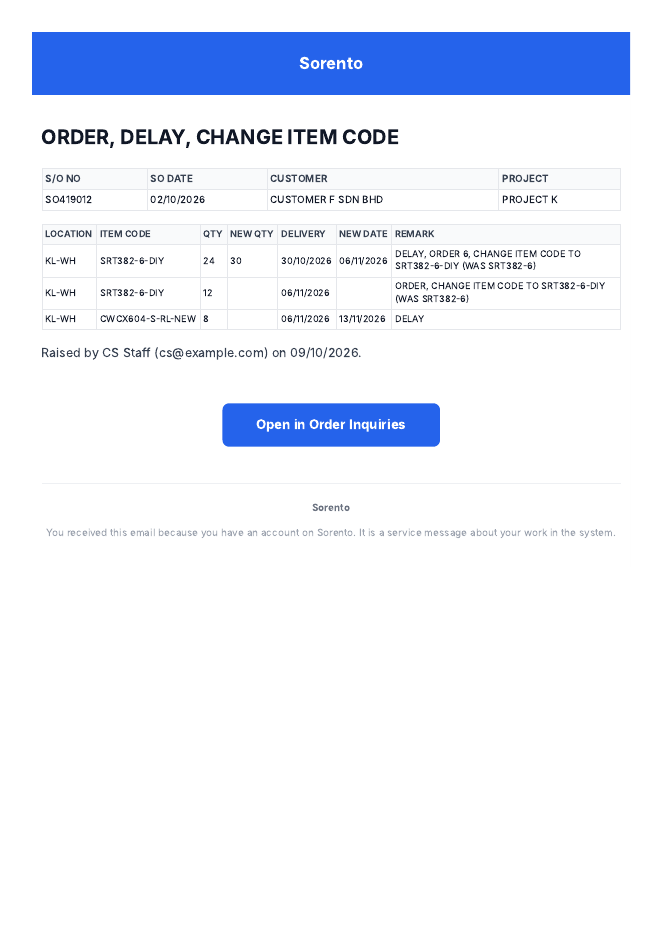
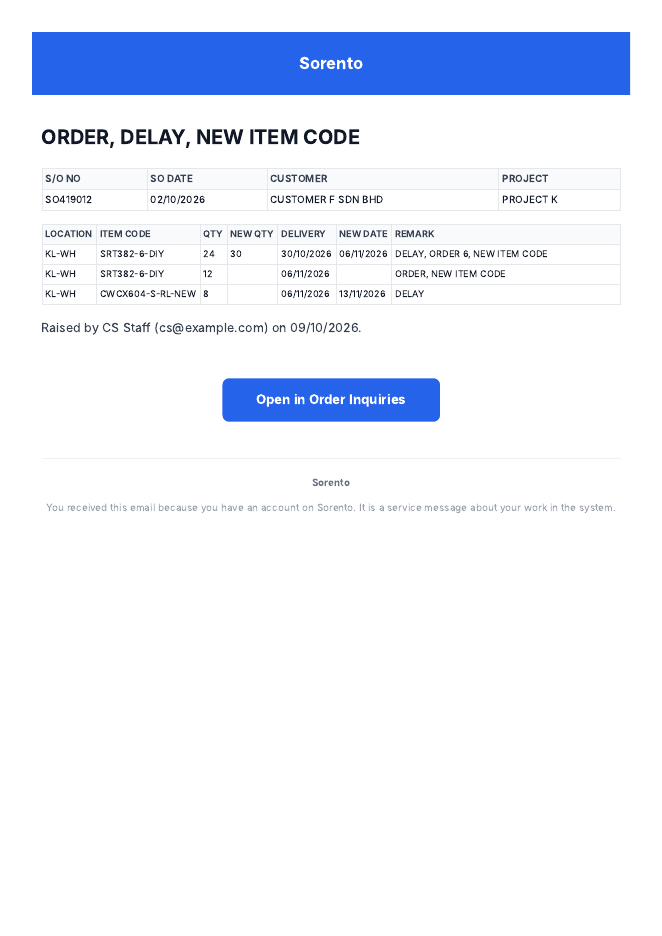
feat(scm): OI handover REMARK in 3 words or fewer per owner rulings (OI-EMAIL-PRINT)
Owner, 9 Oct: ORDER BACK without document (Q-A), MOVED TO <SO> (Q-C), ORDER N /
CANCEL N / CANCEL ALL (Q-D), NEW ITEM CODE for a product change, headline included
(Q-E); combos join by ', '. PRE-ORDERED unchanged (Q-B pending).

Claude-Session: https://claude.ai/code/session_0128QV6Rszh9fo9ABpWJyzZC

diff --git a/documentation/plans/scm/evidence/oi-email-print/print_check.js b/documentation/plans/scm/evidence/oi-email-print/print_check.js
@@ -3,7 +3,7 @@ const fs = require('fs');
 const dir = process.argv[2];
 (async () => {
   const b = await chromium.launch({ executablePath: '/opt/pw-browsers/chromium-1194/chrome-linux/chrome' });
-  for (const c of ['case1', 'case2', 'case3', 'case4']) {
+  for (const c of ['case1', 'case2', 'case3', 'case4', 'case5']) {
     const p = await b.newPage({ viewport: { width: 698, height: 1000 } });
     await p.setContent(fs.readFileSync(`${dir}/${c}.html`, 'utf8'));
     const m = await p.evaluate(() => {

diff --git a/sorento_crm_backend/app/services/project_order_inquiry_service.py b/sorento_crm_backend/app/services/project_order_inquiry_service.py
@@ -314,8 +314,9 @@ _HANDOVER_VERB_LABEL = {
     IV_CHANGE_SO: "CHANGE SO NO",
     IV_CANCEL_BALANCE: "CANCEL BALANCE",
     # OI-PRODUCT-FOLLOW R4 (review S1): a product-only settle earns no qty/date verb, and
-    # the email's headline would otherwise print blank.
-    "CHANGE_ITEM_CODE": "CHANGE ITEM CODE",
+    # the email's headline would otherwise print blank. Worded as REMARK words it
+    # (OI-EMAIL-PRINT, owner 9 Oct).
+    "CHANGE_ITEM_CODE": "NEW ITEM CODE",
 }
 
 
@@ -372,6 +373,11 @@ def _handover_verb_keys(
     return []
 
 
+#: REMARK's words for a product change (owner, 9 Oct): the new code already prints in ITEM
+#: CODE, so the remark only says that it changed.
+_NEW_ITEM_CODE = "NEW ITEM CODE"
+
+
 def handover_remark(
     kind: str, row: Any, was: Optional[Dict[str, Any]], qty: Optional[Decimal] = None
 ) -> str:
@@ -381,25 +387,29 @@ def handover_remark(
     `OrderInquiryRow` or a lightweight stand-in carrying the same attributes, which is
     exactly why this is a pure function rather than a method: it never queries anything.
 
-    * `kind="raised"`: the verb's own spelling (`REMARK_SPELLING`), an `ORDER_BACK`
-      appending its cited document, a CHANGE SO NO appending the order it moves to.
+    Owner, 9 Oct (OI-EMAIL-PRINT, `REMARK-wording-oi-email-print-09oct.md`): "simple and
+    concise, ideally 3 words or fewer". REMARK says what purchasing must do and repeats no
+    number or code another column already shows: ITEM CODE prints the new code, QTY /
+    NEW QTY and DELIVERY / NEW DATE print the moves.
+
+    * `kind="raised"`: the verb's own spelling (`REMARK_SPELLING`); a CHANGE SO NO whose
+      target is known reads `MOVED TO <SO>`; an ORDER BACK prints no document (Q-A).
       `row.note` itself is NEVER printed (OI-EMAIL-PRINT, owner 9 Oct): it is a bag of
       internal stamps ("Planning keeps this Buy: ...", "Replaces 20 used; ...",
       "Order-back: ...", "Linked to ...") that made REMARK wrap over several lines and
       leaked planning notes into a mail purchasing prints. It stays on the row and on the
       OI worklist, one click away through the email's own button.
-    * `kind="settled"`: the date verb (ADVANCE/DELAY) and the qty phrase (`CANCEL BALANCE
-      N NOS` / `ORDER N`), whichever of the two actually moved, joined by ", " when both did.
-    * `kind="cancelled"`: `CANCEL BALANCE <old qty> NOS` - the honest end of a line the book
-      reduced to nothing.
+    * `kind="settled"`: the date verb (ADVANCE/DELAY) and the qty phrase (`CANCEL N` /
+      `ORDER N`), whichever of the two actually moved, joined by ", " when both did.
+    * `kind="cancelled"`: `CANCEL ALL` - the honest end of a line the book reduced to
+      nothing (QTY prints 0; the old quantity stays the row's own record).
+    * A product change on either kind adds `NEW ITEM CODE`.
 
     `qty` as `_handover_settle_diff` reads it: the line's new total for a settled line
     told off a row whose own quantity did not move.
     """
     if kind == "raised":
         label = REMARK_SPELLING.get(row.verb, row.verb or "")
-        if row.verb == IV_ORDER_BACK and getattr(row, "cited_document", None):
-            label = f"{label} {row.cited_document}"
         if row.verb == IV_CHANGE_SO:
             # The one fact a note carries that IS the instruction: where the line moved
             # (`_change_note`'s "Moved to <SO>" for a repoint). Read back off that fixed
@@ -411,14 +421,10 @@ def handover_remark(
                 r"(?:^|; )Moved to ([A-Z0-9][^\s;]*)\s*(?:;|$)", getattr(row, "note", None) or ""
             )
             if moved:
-                label = f"{label} TO {moved.group(1)}"
-        old_code = (was or {}).get("item_code")
-        if old_code:
+                label = f"MOVED TO {moved.group(1)}"
+        if (was or {}).get("item_code"):
             # OI-PRODUCT-FOLLOW R4: a fresh row raised on the line's new product.
-            label = (
-                f"{label}, CHANGE ITEM CODE TO "
-                f"{getattr(row, 'item_code', None) or '-'} (WAS {old_code})"
-            )
+            label = f"{label}, {_NEW_ITEM_CODE}"
         return label
     if kind == "settled":
         date_key, qty_key, qty_diff = _handover_settle_diff(row, was, qty)
@@ -426,20 +432,16 @@ def handover_remark(
         if date_key:
             parts.append(REMARK_SPELLING.get(date_key, date_key))
         if qty_key == IV_CANCEL_BALANCE:
-            parts.append(f"CANCEL BALANCE {_qty_str(qty_diff)} NOS")
+            parts.append(f"CANCEL {_qty_str(qty_diff)}")
         elif qty_key == IV_ORDER:
             parts.append(f"ORDER {_qty_str(qty_diff)}")
         # OI-PRODUCT-FOLLOW R4: AutoCount swapped the line's product and Confirm moved
         # the row onto it - purchasing reads the change in the same REMARK cell.
-        old_code = (was or {}).get("item_code")
-        if old_code:
-            parts.append(
-                f"CHANGE ITEM CODE TO {getattr(row, 'item_code', None) or '-'} (WAS {old_code})"
-            )
+        if (was or {}).get("item_code"):
+            parts.append(_NEW_ITEM_CODE)
         return ", ".join(parts)
     if kind == "cancelled":
-        old_qty = (was or {}).get("qty")
-        return f"CANCEL BALANCE {_qty_str(_dec(old_qty))} NOS"
+        return "CANCEL ALL"
     return ""
 
 
@@ -2130,7 +2132,7 @@ class ProjectOrderInquiryService:
                 line["was"] = was
                 line["item_code"] = live[0].item_code
                 item["item_code"] = live[0].item_code
-                phrase = f"CHANGE ITEM CODE TO {live[0].item_code} (WAS {old_code})"
+                phrase = _NEW_ITEM_CODE
                 line["remark"] = f"{line['remark']}, {phrase}" if line.get("remark") else phrase
                 if "CHANGE_ITEM_CODE" not in item["verb_keys"]:
                     item["verb_keys"] = [*item["verb_keys"], "CHANGE_ITEM_CODE"]

diff --git a/documentation/plans/scm/evidence/oi-email-print/render_real.py b/documentation/plans/scm/evidence/oi-email-print/render_real.py
@@ -8,7 +8,7 @@ sys.path.insert(0, ".")
 from app.models.email_template import EmailTemplate
 from app.services.email_template_service import EmailTemplateService
 from app.services.project_order_inquiry_service import (
-    IV_ORDER, IV_ORDER_BACK, IV_DELAY, _build_handover_context, _format_handover_was,
+    IV_ORDER, IV_ORDER_BACK, IV_DELAY, IV_CHANGE_SO, _build_handover_context, _format_handover_was,
     _handover_fmt_date, _handover_verb_keys, handover_remark,
 )
 from tests._pg_fixture import blank_session
@@ -31,7 +31,7 @@ def item(so, so_date, pso, customer, project, kind, line_no, **row):
         "row_id": f"{so}-{line_no}", "verb_keys": _handover_verb_keys(kind, r, was),
         "line": {
             "so_date": so_date, "so_number": so, "customer": customer, "project": project,
-            "item_code": r.item_code, "qty": str(r.qty), "delivery_date": _handover_fmt_date(r.delivery_date),
+            "item_code": r.item_code, "qty": "0" if kind == "cancelled" else str(r.qty), "delivery_date": _handover_fmt_date(r.delivery_date),
             "location": r.stock_location or "", "remark": handover_remark(kind, r, was),
             "was": _format_handover_was(was),
         },
@@ -76,6 +76,20 @@ cases = {
         item("SO419012", "02/10/2026", "p5", "CUSTOMER F SDN BHD", "PROJECT K", "settled", 3,
              verb=IV_ORDER, qty=8, delivery_date=D(2026, 11, 13), item_code="CWCX604-S-RL-NEW",
              stock_location="KL-WH", was={"delivery_date": D(2026, 11, 6)}),
+    ],
+    "case5": [  # remaining wordings: CANCEL ALL, MOVED TO, CHANGE SO NO, ORDER BACK (no doc)
+        item("SO419100", "05/10/2026", "p6", "CUSTOMER G SDN BHD", "PROJECT N", "cancelled", 1,
+             verb=IV_ORDER, qty=36, delivery_date=D(2026, 11, 2), item_code="SRTFV1001",
+             stock_location="KL-WH", was={"qty": 36}),
+        item("SO419100", "05/10/2026", "p6", "CUSTOMER G SDN BHD", "PROJECT N", "raised", 2,
+             verb=IV_CHANGE_SO, qty=12, delivery_date=D(2026, 11, 2), item_code="SRTUB206-BI",
+             stock_location="KL-WH", note="Moved to SO419101"),
+        item("SO419100", "05/10/2026", "p6", "CUSTOMER G SDN BHD", "PROJECT N", "raised", 3,
+             verb=IV_CHANGE_SO, qty=4, delivery_date=D(2026, 11, 2), item_code="SRTBS2201",
+             stock_location="KL-WH"),
+        item("SO419100", "05/10/2026", "p6", "CUSTOMER G SDN BHD", "PROJECT N", "raised", 4,
+             verb=IV_ORDER_BACK, qty=16, delivery_date=D(2026, 11, 2), item_code="SRTWT6808",
+             stock_location="KL-WH", cited_document="SPO-2026/08-0061"),
     ],
     "case3": [  # long order: 42 lines
         item("SO418900", "01/10/2026", "p4", "CUSTOMER D SDN BHD", "PROJECT M", "raised", i,

diff --git a/sorento_crm_backend/tests/test_so_cancel_handover.py b/sorento_crm_backend/tests/test_so_cancel_handover.py
@@ -129,7 +129,7 @@ def _link_count(db, row):
 
 
 def _assert_cancel_balance_line(line, row):
-    assert line["remark"] == "CANCEL BALANCE 36 NOS"
+    assert line["remark"] == "CANCEL ALL"
     assert line["qty"] == "0"  # QTY CHANGE TO 0, same as the cancel balance route
     assert line["was"]["qty"] == "36"
     assert line["item_code"] == row.item_code
@@ -324,7 +324,7 @@ def test_h9_three_cancelled_lines_make_one_dispatch_with_three_lines(api, monkey
     assert len(matches) == 1, f"expected one {TRIGGER} dispatch, got {len(matches)}"
     handover = matches[0]["context"]["handover"]
     assert handover["line_count"] == 3
-    assert {line["remark"] for line in handover["lines"]} == {"CANCEL BALANCE 36 NOS"}
+    assert {line["remark"] for line in handover["lines"]} == {"CANCEL ALL"}
     assert {line["item_code"] for line in handover["lines"]} == {
         p.product_code for _c, _m, p in mirrors
     }
@@ -344,7 +344,7 @@ def test_h10_a_mixed_press_hands_over_the_cancel_beside_the_confirm(api, monkeyp
     assert len(matches) == 1, f"expected one {TRIGGER} dispatch, got {len(matches)}"
     lines = matches[0]["context"]["handover"]["lines"]
     assert len(lines) >= 2, lines
-    assert [ln["remark"] for ln in lines].count("CANCEL BALANCE 36 NOS") == 1
+    assert [ln["remark"] for ln in lines].count("CANCEL ALL") == 1
 
 
 def test_h11_confirm_all_behaves_the_same(api, monkeypatch):

diff --git a/sorento_crm_backend/tests/test_order_inquiry_handover_automation.py b/sorento_crm_backend/tests/test_order_inquiry_handover_automation.py
@@ -377,7 +377,8 @@ def test_raised_rows_no_was_and_order_back_carries_cited_document(api, monkeypat
     assert plain["was"] is None
     order_back = next(l for l in lines if l["remark"].startswith("ORDER BACK"))
     assert order_back["was"] is None
-    assert "SPO-2026/08-0061" in order_back["remark"]
+    # Owner, 9 Oct (Q-A): the document stays on the row, not in REMARK.
+    assert order_back["remark"] == "ORDER BACK"
 
 
 # --------------------------------------------------------------------------- #
@@ -1237,7 +1238,7 @@ def test_named_two_live_rows_supersede(api, monkeypatch):
     matches = _handover_calls(calls)
     assert matches, "the reconfirm must dispatch the handover"
     lines = matches[-1]["context"]["handover"]["lines"]
-    cancelled = [l for l in lines if l["remark"].startswith("CANCEL BALANCE")]
+    cancelled = [l for l in lines if l["remark"].startswith("CANCEL")]
     assert len(cancelled) == 2, f"AC-R2-12: both still-owed rows must print cancelled, got {lines}"
 
 

diff --git a/sorento_crm_backend/tests/scm/test_oi_handover_line_total.py b/sorento_crm_backend/tests/scm/test_oi_handover_line_total.py
@@ -477,7 +477,7 @@ def test_redirected_row_falls_back_to_todays_per_row_lines(api, monkeypatch):
 
     entries = _line_entries(calls, row_a.item_code)
     remarks = sorted(entry["remark"] for entry in entries)
-    assert remarks == ["ADVANCE", "CANCEL 5", "ORDER"], entries
+    assert remarks == ["ADVANCE", "CANCEL ALL", "ORDER"], entries
     order_line = next(entry for entry in entries if entry["remark"] == "ORDER")
     assert order_line["qty"] == "50", "the fresh row's own quantity, never need - held"
     # OI-EMAIL-PRINT (AC-P2): AC-OH-40..42's wording stays on the fresh row, not in the email.

diff --git a/documentation/plans/scm/oi-email-print-09oct-acceptance-criteria.md b/documentation/plans/scm/oi-email-print-09oct-acceptance-criteria.md
@@ -7,11 +7,15 @@ Plan: `PLAN-oi-email-print-09oct.md`. Mock: `ALIGN-oi-email-print-09oct.html`.
 - **AC-P1** A raised row whose note reads "Planning keeps this Buy: ..." prints REMARK `ORDER`
   (HTML and text part). The note is still on the row and on the OI worklist.
 - **AC-P2** No `row.note` text of any writer (Replaces / received / Order-back / Was / Also
-  cited / Linked to) appears in REMARK. `ORDER BACK <cited document>`, `ORDER N`,
-  `CANCEL BALANCE N NOS`, `ADVANCE` / `DELAY` and `CHANGE ITEM CODE TO X (WAS Y)` print as today.
-- **AC-P3** (Q1 recommendation, built pending the owner's ruling) A CHANGE SO NO row whose note names the target (`Moved to SO123`)
-  prints `CHANGE SO NO TO SO123`; with no target (or only the book re-upload's
-  "Moved to the ... line" stamp) it prints `CHANGE SO NO`.
+  cited / Linked to) appears in REMARK.
+- **AC-P3** (owner Q-C, 9 Oct) A CHANGE SO NO row whose note names the target (`Moved to
+  SO123`) prints `MOVED TO SO123`; with no target (or only the book re-upload's "Moved to the
+  ... line" stamp) it prints `CHANGE SO NO`.
+- **AC-P13** (owner, 9 Oct: "simple and concise, ideally 3 words or fewer";
+  `REMARK-wording-oi-email-print-09oct.md`): `ORDER BACK` with no document (Q-A); `ORDER N`,
+  `CANCEL N`, `CANCEL ALL` (Q-D); a product change adds `NEW ITEM CODE` (Q-E), and the
+  headline says `NEW ITEM CODE` too. Combos join by ", ", e.g. `ADVANCE, CANCEL 5`,
+  `DELAY, ORDER 6, NEW ITEM CODE`. `PRE-ORDERED, DO NOT ORDER` is unchanged until Q-B is ruled.
 
 ## Layout
 
@@ -22,9 +26,9 @@ Plan: `PLAN-oi-email-print-09oct.md`. Mock: `ALIGN-oi-email-print-09oct.html`.
   changed that value.
 - **AC-P6** One order in the email: no group row. Two or more: one group row `S/O NO <n>` before
   each order's first line, spanning every column.
-- **AC-P7** Every `th`, and every `td` except REMARK, carries `white-space:nowrap`. REMARK
-  `DELAY, ORDER 6, CHANGE ITEM CODE TO SRT382-6-DIY (WAS SRT382-6)` takes at most 2 lines on
-  the 672px card with both NEW columns and a 16-char code present (line table 11px).
+- **AC-P7** Every `th`, and every `td` except REMARK, carries `white-space:nowrap`. The
+  owner's case `DELAY, ORDER 6, NEW ITEM CODE` takes one line on the 672px card with both NEW
+  columns and a 16-char code present (line table 11px).
 - **AC-P8** The rendered mail's card is 672px wide (`print` width), side gutters 12px; the shell's
   `<style>` carries an `@media print` rule and `@page { size: A4 portrait }`.
 - **AC-P9** Printing the mock's "after" email in Chromium to A4 portrait gives one page for 12 lines

diff --git a/documentation/plans/scm/PLAN-oi-email-print-09oct.md b/documentation/plans/scm/PLAN-oi-email-print-09oct.md
@@ -1,6 +1,6 @@
 # PLAN: OI handover email - no multi-line cells, fits one printed page (OI-EMAIL-PRINT)
 
-Status: Review passed (round 2, head f5d120c5), on hand test (feature track, abbreviated per the crew brief: card + mock, red tests, one PR; carries one data migration on `email_templates`, so not the small fix track). Q1 to Q5 are built on their recommendations; the owner's rulings are pending on PR #1543 and none is recorded yet.
+Status: Build, REMARK wording per owner rulings 9 Oct (Q-A, Q-C, Q-D, Q-E built; Q-B pending), then review + print pass (feature track, abbreviated per the crew brief; carries one data migration on `email_templates`, so not the small fix track). Layout passed the owner hand test 9 Oct.
 Lane: OI-EMAIL-PRINT, branch `claude/oi-email-print-ucrsgl`, PR #1543
 Domain: scm (order inquiry handover email, `order_inquiry_handover` automation) + email layout shell
 UAC: `oi-email-print-09oct-acceptance-criteria.md` alongside
@@ -57,7 +57,9 @@ and S/O NO repeat on every row.
 
 ### Rules
 
-1. **REMARK is one short instruction.** It is the verb's own spelling plus only the structured
+1. **REMARK is one short instruction.** Wording per the owner's rulings of 9 Oct in
+   `REMARK-wording-oi-email-print-09oct.md` (no numbers or codes another column shows; ORDER
+   BACK without document; MOVED TO <SO>; CANCEL N / CANCEL ALL; NEW ITEM CODE). Earlier text: It is the verb's own spelling plus only the structured
    facts that belong to that verb: `ORDER`, `DELAY`, `ADVANCE`, `ORDER N`,
    `CANCEL BALANCE N NOS`, `ORDER BACK <cited document>`, `PRE-ORDERED, DO NOT ORDER`,
    `CHANGE ITEM CODE TO X (WAS Y)`, joined by ", " as today. `row.note` is never printed in

diff --git a/documentation/plans/scm/REMARK-wording-oi-email-print-09oct.md b/documentation/plans/scm/REMARK-wording-oi-email-print-09oct.md
@@ -1,8 +1,13 @@
 # OI handover email: every REMARK value, current vs proposed (OI-EMAIL-PRINT, owner ask 9 Oct)
 
 Owner, after the layout PASS (9 Oct, about 09:5x): REMARK must be simple and concise, ideally
-3 words or fewer. "CHANGE ITEM CODE TO SRT382-6-DIY (WAS SRT382-6)" is too complex. Nothing is
-built yet: the owner aligns the wording here first.
+3 words or fewer. "CHANGE ITEM CODE TO SRT382-6-DIY (WAS SRT382-6)" is too complex.
+
+**Owner rulings (9 Oct), built:** Q-A (b) `ORDER BACK` with no document number; Q-C (a)
+`MOVED TO <SO>`; Q-D (a) `ORDER 64` / `CANCEL 4` / `CANCEL ALL`; Q-E (a) `NEW ITEM CODE`;
+combos as proposed; the headline word for a product change matches (`NEW ITEM CODE`).
+**Q-B pending** (owner asked what PRE-ORDERED is; answered on PR #1543): row 5 still reads
+`PRE-ORDERED, DO NOT ORDER`. Row 3's proposal below is superseded by Q-A (b).
 
 Measured on head 12ecdc24. All REMARK text comes from four places:
 
